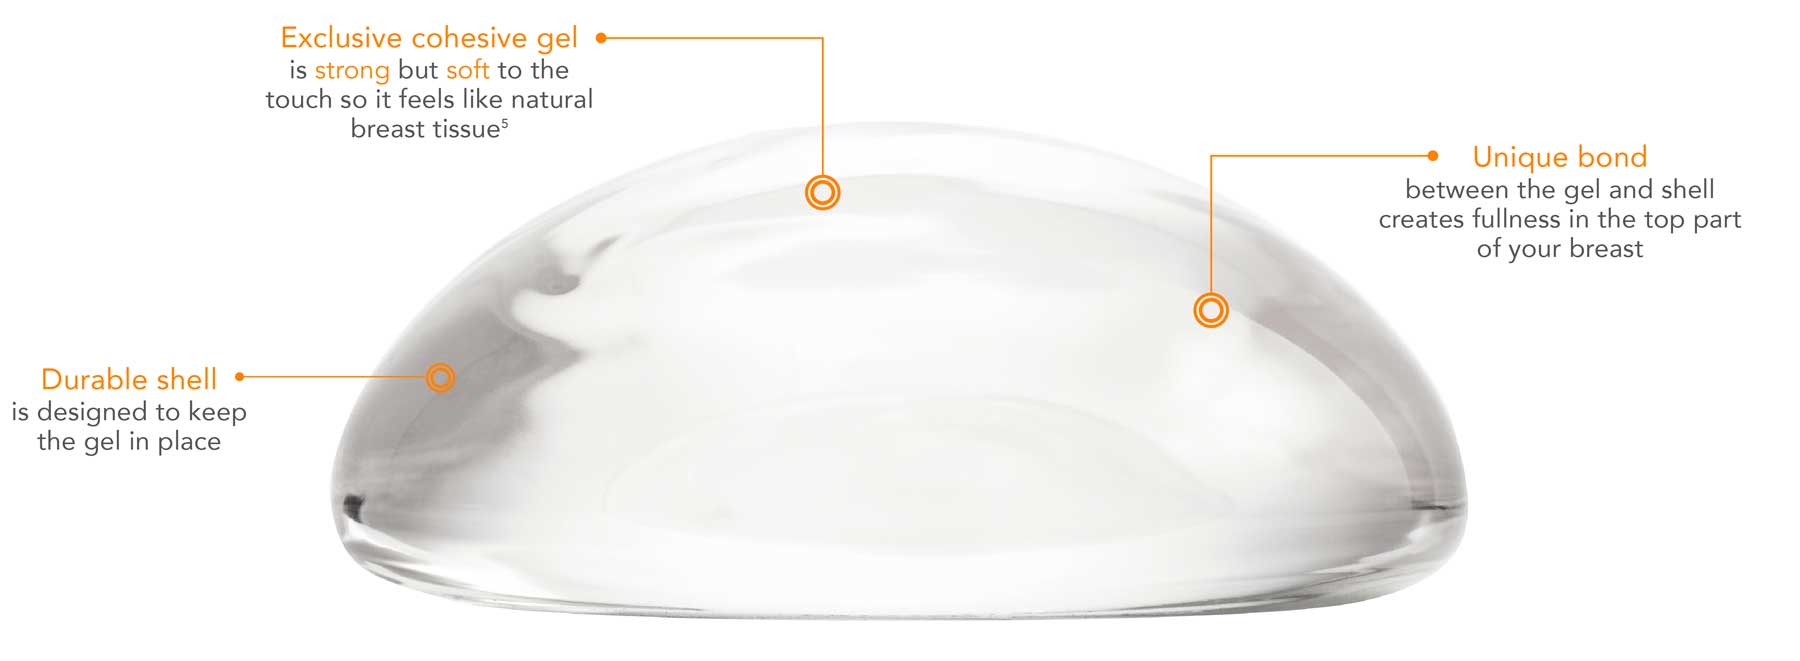
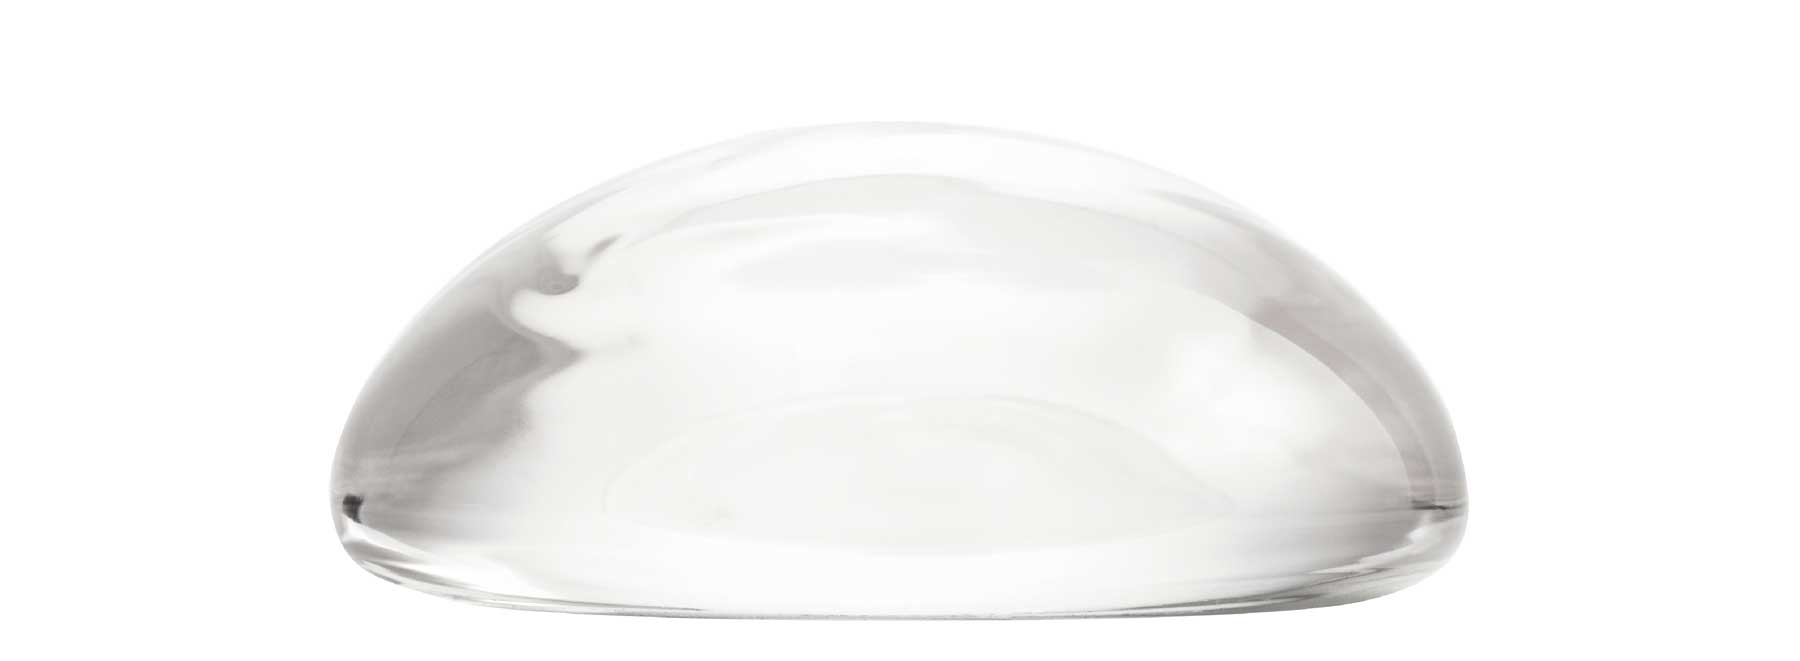
pages

diff --git a/web/app/themes/sientra-theme/resources/assets/styles/layouts/_pages.scss b/web/app/themes/sientra-theme/resources/assets/styles/layouts/_pages.scss
@@ -1188,6 +1188,10 @@
         }
   
       }
+      small {
+        flex-basis: 100%;
+        text-align: left;
+      }
     }
   }
   .boxy-box.following {
@@ -1234,12 +1238,20 @@
     }
     .allo-derm {
       display: flex;
-      flex-direction: row;
-      height: 32vw;
+      flex-direction: column;
       justify-content: center;
+      @media (min-width: 768px) {
+        flex-direction: row;
+        height: 32vw;
+      }
       img {
-        height: 100%;
-        width: auto;
+        height: auto;
+        width: 100%;
+        flex-basis: 100%;
+        @media (min-width: 768px) {
+          height: 100%;
+          width: auto;
+        }
       }
     }
   }
@@ -1296,7 +1308,7 @@
     }
   }
   .implant-options {
-    font-size: 1.5rem;
+
     max-width: 1650px;
     header {      
       img {
@@ -1316,13 +1328,22 @@
         display: flex;
         flex-direction: column;
         justify-content: flex-end;
-        padding-left: 5%;
-        padding-right: 5%;
+        p {
+          margin-left: 5%;
+          margin-right: 5%;
+          font-size: 1.2rem;
+           @media (min-width: 768px) { 
+            font-size: 1.5rem;
+           }
+        }
         img {
-          width: 60%;
+          width: 50%;
           margin-bottom: 15px;
           margin-left: auto;
           margin-right: auto;
+          &.diagram {
+            width: 100%;
+          }
         }
       }
     } 
@@ -1813,12 +1834,22 @@
       width: 80%;
       max-width: 800px;
     }
+    h2 {
+      font-size: 1.3rem;
+      @media (min-width: 768px) { 
+        font-size: 1.8rem;
+      }
+    }
     .diagram {
       justify-content: center;
+      background-image: url(../images/implant-safety-diagram.jpg);
+      background-position: center center;
+      background-repeat: no-repeat;
+      background-size: contain;
     }
     article {
-      padding-left: 4%;
-      padding-right: 4%;
+      padding-left: 5%;
+      padding-right: 5%;
       h3 {
         color: $orange;
         font-size: 1.6rem;
@@ -1851,7 +1882,8 @@
         }
       }
       p {
-        font-size: 1.2rem;
+        font-size: 1.0rem;
+        line-height: 1.2rem;
       }
     }
 
@@ -1859,10 +1891,12 @@
   .warranty {
     padding-left: 3%;
     padding-right: 3%;
+    margin-top: 50px;
     .h-line img {
       @media (min-width: 768px) {
         max-width: 600px;
         transform: translatex(-8%);
+        padding-top: 5%;
       } 
     }
   }
@@ -1871,24 +1905,35 @@
     padding: 15px;
     .inner {
       background-color: $tan;
-      padding: 30px;
-      font-size: 1.4rem;
+      padding: 10px;
+      font-size: 1.0rem;
+      @media (min-width: 768px) {
+        font-size: 1.4rem;
+        padding: 30px;
+      }
       ul {
         margin-bottom: 30px;
         margin-top: 30px;
         li {
-          font-size: 1.2rem;
+          font-size: 1.0rem;
           border: none;
           padding: 0 0 0.5rem; 
           background: transparent;
+          @media (min-width: 768px) { 
+            font-size: 1.2rem;
+          }
           span {
             color: $orange;
-            width: 5.5rem;
+            width: 4.5rem;
             line-height: 2.0rem;
-            float: left;
             display: inline-block;
             font-family: 'Avenir-Heavy', Avenir, sans-serif;
-            font-size: 1.3rem;
+            font-size: 1.0rem;
+            @media (min-width: 768px) {
+              float: left;
+              font-size: 1.3rem;
+              width: 5.5rem;
+            }
           }
         }
       }
@@ -1966,13 +2011,9 @@
       .model {
 
       }
-      .message {
-        background-image: url(../images/basics-bg.jpg);
-        background-position: center;
-        background-size: 75%;
-        background-repeat: no-repeat;  
+      .message {  
         .message-inner {
-          padding: 15% 15px;
+          padding: 20% 15px;
           align-items: center;
           img {
             width: 90%;

diff --git a/web/app/themes/sientra-theme/resources/views/partials/content-page-expander-implant-options.blade.php b/web/app/themes/sientra-theme/resources/views/partials/content-page-expander-implant-options.blade.php
@@ -36,6 +36,7 @@
   <span class="opus">•••</span><br>
   Supported by the industry’s most comprehensive 20-year warranty 
   	</article>
+  	<small class="mt-5">*As of March, 2020, realself.com</small>
   </div>
 </section>
 <section class="following boxy-box text-center my-5">
@@ -76,7 +77,7 @@
   </div>
 </section>
 
-<section class="implant-options text-center mx-auto my-5">
+<section class="implant-options text-center mx-auto mt-5">
   <header>
     <img src="@asset('images/implant-options.svg')" class="img-fluid" alt="implant-options" />
 		<h2 class="light my-3">available in round and teardrop shape</h2>
@@ -85,15 +86,15 @@
 		<div class="col-12 col-md-6 my-3">
   		<img src="@asset('images/opus-luxe.svg')" alt="opus-luxe" />
 			<p>Cohesive <span class="opus">round implants</span> designed for a fuller look with a naturally soft feel</p>
-			<img src="@asset('images/desires-diagram-round.jpg')" class="img-fluid d-md-none" alt="desires-diagram-round" width="1000" height="597" />
+			<img src="@asset('images/options-diagram_luxe.jpg')" class="img-fluid diagram" alt="options-diagram_luxe" width="1500" height="1067" />
 		</div>
 		<div class="col-12 col-md-6 my-3">
 			<img src="@asset('images/opus-curve.svg')" alt="opus-curve" />
 			<p>Cohesive <span class="opus">teardrop shaped implants</span> designed to mimic the natural slope of a women’s breast</p>
-			<img src="@asset('images/desires-diagram-teardrop.jpg')" class="img-fluid d-md-none" alt="desires-diagram-teardrop" width="1091" height="845" />
+			<img src="@asset('images/options-diagram_curve.jpg')" class="img-fluid diagram" alt="options-diagram_curve" width="1500" height="1067" />
 		</div>
 	</div><!-- .row -->
-	<img src="@asset('images/desires-diagram.jpg')" class="img-fluid my-5 d-none d-md-block" alt="desires-diagram" width="2500" height="911" />
+<!-- 	<img src="@asset('images/desires-diagram.jpg')" class="img-fluid my-5 d-none d-md-block" alt="desires-diagram" width="2500" height="911" /> -->
 </section>
 
 <section class="feel-so-real text-center"> 
@@ -110,13 +111,13 @@
   	<div class="col-12 col-sm-10 offset-sm-1 px-5">
   		<img src="@asset('images/cohesivity.svg')" alt="cohesivity" />
   	</div>
-		<div class="col-12 col-sm-5 px-4 offset-sm-1">
-  		<img src="@asset('images/hsc-gel.jpg')" class="img-fluid mb-5" alt="hsc-gel" width="1000" height="633" />
+		<div class="col-12 col-sm-5 px-4 mb-5 offset-sm-1">
+  		<img src="@asset('images/hsc-gel.jpg')" class="img-fluid mb-1 mb-md-4" alt="hsc-gel" width="1000" height="633" />
 			<h3>High-Strength Cohesive (HSC) Gel</h3>
 <p>is soft but maintains its shape. HSC implants hold their fullness while mimicking the soft feel of natural breast tissue.</p>
 		</div>
 		<div class="col-12 col-sm-5 px-4">
-			<img src="@asset('images/hsc-plus-gel.jpg')" class="img-fluid mb-5" alt="hsc-plus-gel" width="1000" height="632" />
+			<img src="@asset('images/hsc-plus-gel.jpg')" class="img-fluid mb-1 mb-md-4" alt="hsc-plus-gel" width="1000" height="632" />
 			<h3>High-Strength Cohesive Plus (HSC+) Gel</h3>
 <p>is more cohesive than our HSC gel. It provides improved shape retention without the trade-off of an overly firm implant.<sup>1</sup></p>
 		</div>

diff --git a/web/app/themes/sientra-theme/resources/views/partials/content-page-safety.blade.php b/web/app/themes/sientra-theme/resources/views/partials/content-page-safety.blade.php
@@ -22,16 +22,17 @@
     			<h2 class="light">When it comes to patient safety, not all implants are created equal.<br>Sientra <span class="opus">OPUS</span> implants are clinically shown to have low complication rates.<sup>4</sup></h2>
   	</div>
 
-    <div class="diagram col-12">
-     	<img src="@asset('images/implant-safety-diagram.jpg')" class="img-fluid" alt="implant-safety-diagram" width="1800" height="661" />
+    <div class="diagram col-12 mb-5">
+<!--      	<img src="@asset('images/implant-safety-diagram.jpg')" class="img-fluid" alt="implant-safety-diagram" width="1800" height="661" /> -->
+     	<img src="@asset('images/implant-safety-diagram.svg')" class="img-fluid" alt="implant-safety-diagram" />
     </div>
 
     <div class="container">
       <div class="row">    
       <!-- 	 -->
-      	<article class="col-12 col-sm-4 mb-5 mb-sm-0">
+      	<article class="col-12 col-sm-4 mb-5">
         	<div class="rounded-circle">
-        		<strong>Low</strong>
+        		<strong>Lowest</strong>
       <p>capsular contracture rate<sup>*</sup></p>
         	</div>
       		<h3>Capsular Contracture</h3>
@@ -40,7 +41,7 @@
       the implant</p>
       	</article>
       <!-- 	 -->
-      	<article class="col-12 col-sm-4 mb-5 mb-sm-0">
+      	<article class="col-12 col-sm-4 mb-5">
         	<div class="rounded-circle">
         		<strong>Lowest</strong>
         		<p>rupture rate<sup>*</sup></p>
@@ -51,7 +52,7 @@
       
       	</article>
       <!-- 	 -->
-      	<article class="col-12 col-sm-4 mb-5 mb-sm-0">
+      	<article class="col-12 col-sm-4 mb-1 mb-md-5">
         	<div class="rounded-circle">
         		<strong>Lowest</strong>
         		<p>reoperation rate<sup>*</sup></p>
@@ -84,7 +85,7 @@
   		<p>Our Sientra Platinum20™ Product Replacement and Limited Warranty Program provides the most comprehensive protection, longest length of coverage, most financial assistance, and least amount of warranty restrictions amongst all implant brands. </p>
   		<p>Covers all primary and revision augmentation and reconstruction surgeries</p>
   	</div>
-  	<div class="col-10 offset-1">
+  	<div class="col-12 col-md-10 offset-md-1">
   		<ul class="list-group"><li class="list-group-item"><span>Lifetime</span>FREE implant replacement for rupture</li>
         <li class="list-group-item"><span>20 Year</span>Up to $5,000 for uncovered fees and costs due to implant rupture</li>
         <li class="list-group-item"><span>20 Year</span>FREE implant replacement for complications of capsular contracture (Baker Grade III/IV), late forming seroma, and double capsule</li>
